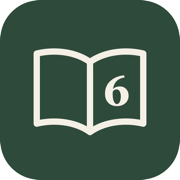
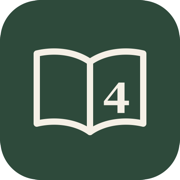
Rename to The Fourth Notebook
Father filled three notebooks, so this is the fourth: name, story
text, masthead, drawing (three notebooks), app icon, backup file name.
Saved words keep the same storage key so nothing is lost.

Changed region(s): [[0.5556, 0.4167, 0.7222, 0.6389]]

diff --git a/src/components/Illustration.tsx b/src/components/Illustration.tsx
@@ -1,12 +1,12 @@
 /*
-  The six line drawings. Rules: one line weight, accent colour only,
+  The line drawings. Rules: one line weight, accent colour only,
   pages filled with the card colour, at most one per screen.
 */
 export type IllustrationName = 'book' | 'notebooks' | 'pen' | 'newspaper' | 'tea' | 'sparkle'
 
 const labels: Record<IllustrationName, string> = {
   book: 'An open book',
-  notebooks: 'A stack of five notebooks',
+  notebooks: 'A stack of three notebooks',
   pen: 'A fountain pen',
   newspaper: 'A newspaper with one word circled',
   tea: 'A cup of tea',
@@ -29,14 +29,13 @@ function Drawing({ name }: { name: IllustrationName }) {
     case 'notebooks':
       return (
         <>
-          <rect x="22" y="72" width="76" height="10" rx="2" style={fill} />
-          <rect x="27" y="62" width="72" height="10" rx="2" style={fill} />
-          <rect x="19" y="52" width="75" height="10" rx="2" style={fill} />
-          <rect x="25" y="42" width="71" height="10" rx="2" style={fill} />
-          <rect x="22" y="32" width="73" height="10" rx="2" style={fill} />
-          <path d="M34 72v10M39 62v10M31 52v10M37 42v10M34 32v10" />
-          <path d="M44 25L88 19M88 19L94 18.5L89 22.5Z" />
-          <path d="M104 10v10M99 15h10" />
+          {/* His three notebooks */}
+          <rect x="20" y="66" width="80" height="14" rx="2" style={fill} />
+          <rect x="26" y="52" width="74" height="14" rx="2" style={fill} />
+          <rect x="18" y="38" width="78" height="14" rx="2" style={fill} />
+          <path d="M33 66v14M39 52v14M31 38v14" />
+          <path d="M44 31L88 25M88 25L94 24.5L89 28.5Z" />
+          <path d="M104 14v10M99 19h10" />
         </>
       )
     case 'pen':

diff --git a/src/pages/Story.tsx b/src/pages/Story.tsx
@@ -8,12 +8,12 @@ export default function Story() {
   return (
     <article className="mx-auto flex max-w-xl flex-col gap-5">
       <div className="flex justify-between border-b border-ink pb-2 text-sm">
-        <span className="smallcaps">Notebook No. 6</span>
+        <span className="smallcaps">Notebook No. 4</span>
         <span className="smallcaps">Our story</span>
       </div>
 
       <Illustration name="notebooks" className="mx-auto w-44" />
-      <h1 className="text-center text-5xl">The first five notebooks</h1>
+      <h1 className="text-center text-5xl">The first three notebooks</h1>
 
       <p>
         When I was little, my father kept notebooks of words. He didn't copy them from the dictionary. He wrote down
@@ -23,7 +23,7 @@ export default function Story() {
       <p className="text-center font-hand text-3xl text-green">
         “So, what does <span className="underline decoration-1 underline-offset-4">ubiquitous</span> mean?”
       </p>
-      <p>He filled five notebooks. This app is my sixth.</p>
+      <p>He filled three notebooks. This app is my fourth.</p>
 
       <div className="mt-4 flex flex-wrap justify-center gap-3 border-t border-line pt-6">
         <ButtonLink to="/add">Add a word</ButtonLink>

diff --git a/src/pages/Home.tsx b/src/pages/Home.tsx
@@ -24,7 +24,7 @@ export default function Home() {
 
   const masthead = (
     <div className="flex justify-between border-b border-ink pb-2 text-sm">
-      <span className="smallcaps">Notebook No. 6</span>
+      <span className="smallcaps">Notebook No. 4</span>
       <span className="smallcaps">{today}</span>
     </div>
   )
@@ -45,7 +45,7 @@ export default function Home() {
           <QuickAdd />
         </div>
         <p className="text-center font-hand text-2xl text-green">
-          He filled five. This is the sixth.{' '}
+          He filled three. This is the fourth.{' '}
           <Link to="/story" className="whitespace-nowrap font-body text-base underline underline-offset-2">
             Read the story
           </Link>
@@ -145,7 +145,7 @@ export default function Home() {
 
       <p className="text-center text-sm text-muted">
         <Link to="/story" className="underline-offset-2 hover:text-green hover:underline">
-          Why “the sixth notebook”?
+          Why “the fourth notebook”?
         </Link>
       </p>
     </div>

diff --git a/src/lib/storage.ts b/src/lib/storage.ts
@@ -94,12 +94,12 @@ export function saveNotebook(
 // ---------- Backup files ----------
 
 export function serializeBackup(notebook: Notebook, now = new Date()): string {
-  return JSON.stringify({ app: 'sixth-notebook', exportedAt: now.toISOString(), ...notebook }, null, 2)
+  return JSON.stringify({ app: 'fourth-notebook', exportedAt: now.toISOString(), ...notebook }, null, 2)
 }
 
 export function backupFilename(now = new Date()): string {
   const d = now.toISOString().slice(0, 10)
-  return `sixth-notebook-backup-${d}.json`
+  return `fourth-notebook-backup-${d}.json`
 }
 
 export type ParsedBackup =

diff --git a/src/pages/More.tsx b/src/pages/More.tsx
@@ -4,7 +4,7 @@ import Illustration from '../components/Illustration'
 import PageHeader from '../components/PageHeader'
 
 const links = [
-  { to: '/story', title: 'Our story', note: 'The first five notebooks' },
+  { to: '/story', title: 'Our story', note: 'The first three notebooks' },
   { to: '/backup', title: 'Backup & restore', note: 'Keep a copy of your notebook as a file' },
 ]
 

diff --git a/src/lib/usePageTitle.ts b/src/lib/usePageTitle.ts
@@ -1,7 +1,7 @@
 import { useEffect } from 'react'
 import { APP_NAME } from '../config'
 
-/** Sets the browser tab title, e.g. "Library · The Sixth Notebook". */
+/** Sets the browser tab title, e.g. "Library · The Fourth Notebook". */
 export function usePageTitle(title?: string) {
   useEffect(() => {
     document.title = title ? `${title} · ${APP_NAME}` : APP_NAME

diff --git a/vite.config.ts b/vite.config.ts
@@ -24,7 +24,7 @@ export default defineConfig({
         globPatterns: ['**/*.{js,css,html,svg,png}', '**/*-latin-[0-9]*.woff2'],
       },
       manifest: {
-        name: 'The Sixth Notebook',
+        name: 'The Fourth Notebook',
         short_name: 'Notebook',
         description: 'A personal dictionary that quizzes you back.',
         theme_color: '#2E4A3B',

diff --git a/index.html b/index.html
@@ -8,7 +8,7 @@
     <link rel="icon" type="image/svg+xml" href="/favicon.svg" />
     <link rel="apple-touch-icon" href="/apple-touch-icon.png" />
     <meta name="apple-mobile-web-app-title" content="Notebook" />
-    <title>The Sixth Notebook</title>
+    <title>The Fourth Notebook</title>
   </head>
   <body>
     <div id="root"></div>

diff --git a/src/config.ts b/src/config.ts
@@ -1,5 +1,5 @@
 // One place for names and keys, so renaming the app later is a one-line change.
-export const APP_NAME = 'The Sixth Notebook'
+export const APP_NAME = 'The Fourth Notebook'
 
 // Browser storage is shared by every GitHub Pages project under the same
 // username, so the key is prefixed to avoid collisions.

diff --git a/README.md b/README.md
@@ -1,6 +1,6 @@
-# The Sixth Notebook
+# The Fourth Notebook
 
-A personal dictionary that quizzes you back. My father filled five notebooks with words he found in the newspaper; this is the sixth.
+A personal dictionary that quizzes you back. My father filled three notebooks with words he found in the newspaper; this is the fourth.
 
 ## Run it locally
 
